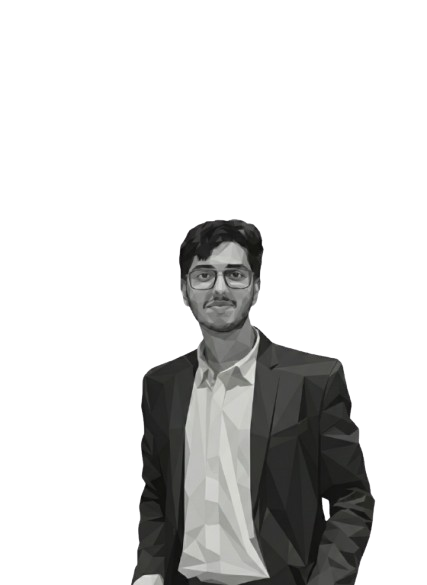
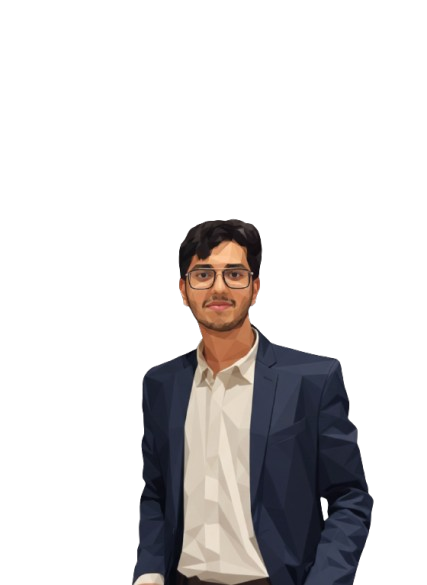
chore: removed greyscale from photo

diff --git a/app/page.tsx b/app/page.tsx
@@ -339,7 +339,7 @@ export default function Home() {
             {/* Profile Image - Easter Egg Trigger */}
             <button
               onClick={() => setShowEasterEgg(!showEasterEgg)}
-              className="group relative -translate-y-4 mb-0 h-72 w-72 grayscale filter sm:h-80 sm:w-80 overflow-visible cursor-pointer transition-all duration-500 hover:grayscale-0 active:scale-95"
+              className="group relative -translate-y-4 mb-0 h-72 w-72 sm:h-80 sm:w-80 overflow-visible cursor-pointer transition-all duration-500 active:scale-95"
               aria-label="Toggle Aura Mode"
             >
               <div className="relative h-full w-full overflow-hidden [mask-image:linear-gradient(to_bottom,black_80%,transparent)]">
@@ -348,7 +348,7 @@ export default function Home() {
                   alt="Profile"
                   fill
                   unoptimized
-                  className={`object-cover transition-all duration-700 ${showEasterEgg ? 'grayscale-0 scale-105' : 'grayscale'}`}
+                  className={`object-cover transition-all duration-700 ${showEasterEgg ? 'scale-105' : ''}`}
                   priority
                 />
               </div>
